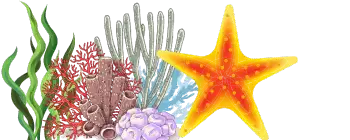
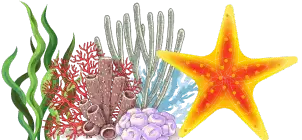
fixed v5

diff --git a/index.html b/index.html
@@ -32,7 +32,7 @@
                 <picture>
                     <source srcset="./img/1.webp" type="image/webp" />
                     <source srcset="./img/1.png" type="image/png" />
-                    <img src="./img/1.png" alt="" class="banner__img image-sticky-bottom animated" />
+                    <img src="./img/1.png" alt="" class="banner__img image-sticky-bottom animated banner__img--left" />
                 </picture>
                 <div class="banner__content">
                     <div class="banner__title animated">
@@ -71,10 +71,10 @@
                 <picture>
                     <source srcset="./img/3.webp" type="image/webp" />
                     <source srcset="./img/3.png" type="image/png" />
-                    <img src="./img/3.png" alt="" class="banner__img image-sticky-bottom" />
+                    <img src="./img/3.png" alt="" class="banner__img image-sticky-bottom banner__img--left" />
                 </picture>
                 <div class="banner__content">
-                    <div class="banner__title">Открытый курс по Биологии Зарождение жизни</div>
+                    <div class="banner__title">Курс по Биологии Зарождение жизни</div>
                     <div class="banner__date">
                         12 ноября <br />
                         бесплатно
@@ -107,7 +107,7 @@
                 <picture>
                     <source srcset="./img/5.webp" type="image/webp" />
                     <source srcset="./img/5.png" type="image/png" />
-                    <img src="./img/5.png" alt="" class="banner__img image-sticky-bottom" />
+                    <img src="./img/5.png" alt="" class="banner__img image-sticky-bottom banner__img--left" />
                 </picture>
                 <div class="banner__content">
                     <div class="banner__title">БОЛЬШАЯ РАСПРОДАЖА ОСЕНИ</div>
@@ -182,7 +182,7 @@
                 <picture>
                     <source srcset="./img/9.webp" type="image/webp" />
                     <source srcset="./img/9.png" type="image/png" />
-                    <img src="./img/9.png" alt="" class="banner__img image-sticky-center image-centered" />
+                    <img src="./img/9.png" alt="" class="banner__img image-sticky-center" />
                 </picture>
                 <div class="banner__content">
                     <div class="banner__title">
@@ -257,7 +257,7 @@
                 <picture>
                     <source srcset="./img/12.webp" type="image/webp" />
                     <source srcset="./img/12.png" type="image/png" />
-                    <img src="./img/12.png" alt="" class="banner__img image-sticky-center image-centered" />
+                    <img src="./img/12.png" alt="" class="banner__img image-sticky-center" />
                 </picture>
                 <div class="banner__content">
                     <div class="banner__title animated">

diff --git a/style.css b/style.css
@@ -17,6 +17,7 @@ body {
     position: relative;
     display: flex;
     max-height: 77px;
+    gap: 20px;
 }
 picture {
     display: flex;
@@ -177,7 +178,9 @@ picture {
 
 @media (max-width: 768px) {
     .banner__img {
-        height: 50px;
+        height: 67px;
+        width: auto;
+        object-fit: contain;
     }
 
     .biology__img {
@@ -205,23 +208,28 @@ picture {
 
 @media (max-width: 576px) {
     .banner__wrapper {
-        padding: 0 20px;
+        padding: 0 10px 0 0;
+        gap: 10px;
     }
     .banner__content {
-        justify-content: center;
-        gap: 20px;
-        /* margin-left: 30px; */
+        justify-content: flex-end;
+        gap: 10px;
     }
     .banner__img {
+        height: 47px;
+        position: relative;
+        /* margin-left: -30px; */
+    }
+
+    .banner__img--left {
+        margin-left: -30px;
     }
 
     picture {
-        position: absolute;
-        top: 0;
-        height: 100%;
-        left: -30px;
-        z-index: 0;
-        opacity: 0.5;
+        /* width: 102px;
+        height: 67px;
+        overflow: hidden;
+        position: relative; */
     }
 
     .banner__title > br {
@@ -344,4 +352,10 @@ picture {
         width: fit-content;
         margin-right: -10px;
     } */
+}
+
+@media (max-width: 350px) {
+    .banner__img {
+        display: none;
+    }
 }
